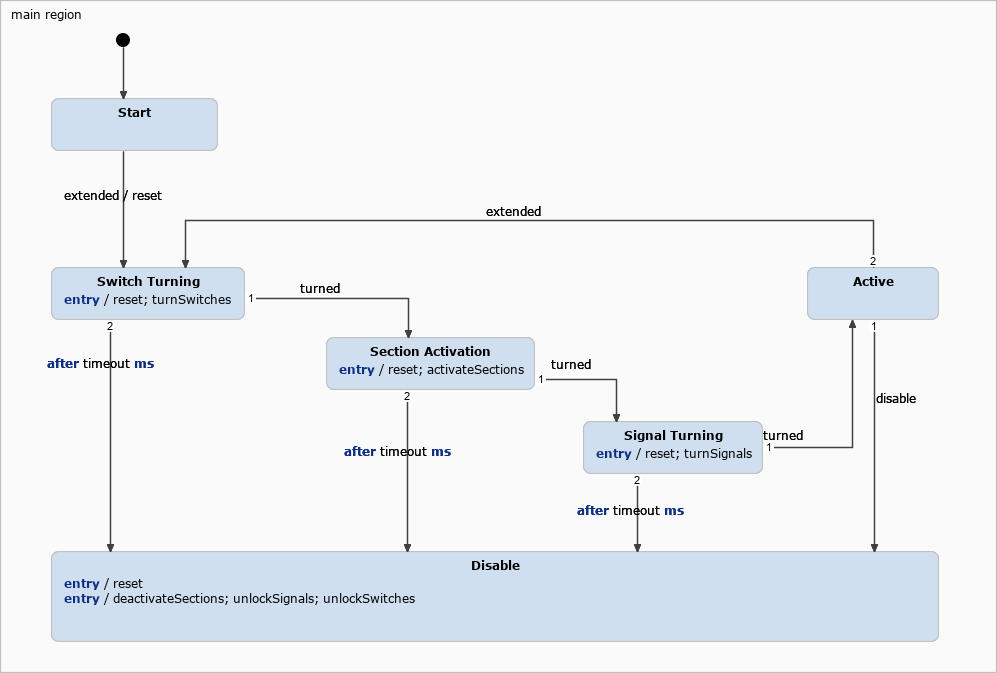
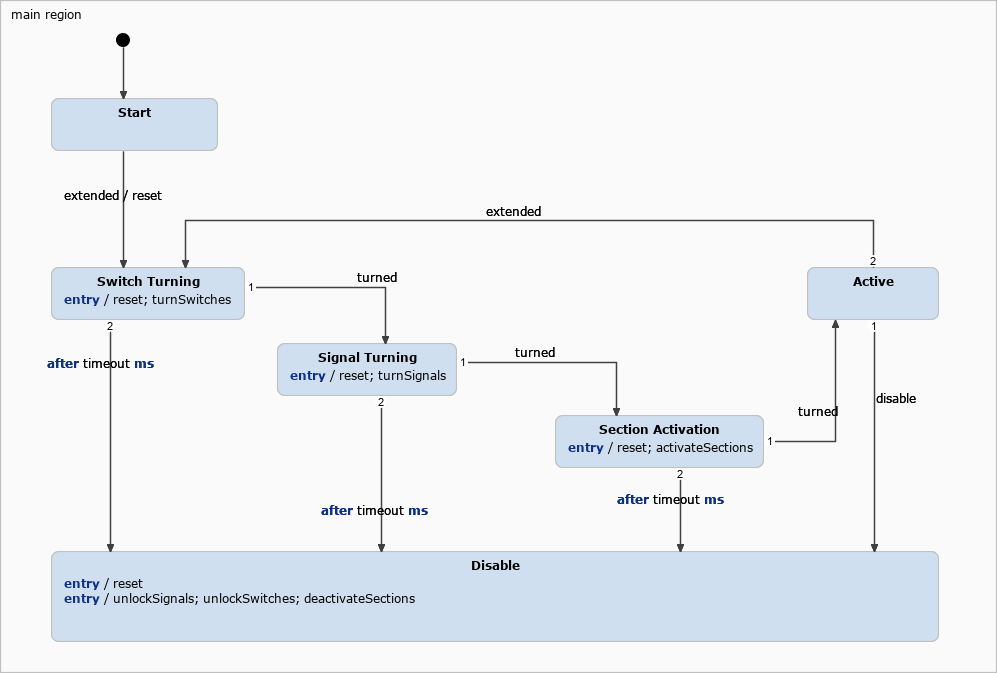
Reordered route deallocation.

diff --git a/statecharts/RouteStatechart.cpp b/statecharts/RouteStatechart.cpp
@@ -276,9 +276,9 @@ namespace mrw
 		{
 			/* Entry action for state 'Disable'. */
 			ifaceOperationCallback->reset();
-			ifaceOperationCallback->deactivateSections();
 			ifaceOperationCallback->unlockSignals();
 			ifaceOperationCallback->unlockSwitches();
+			ifaceOperationCallback->deactivateSections();
 		}
 
 		/* Exit action for state 'Switch Turning'. */
@@ -465,7 +465,7 @@ namespace mrw
 				if (turned_raised)
 				{
 					exseq_main_region_Switch_Turning();
-					enseq_main_region_Section_Activation_default();
+					enseq_main_region_Signal_Turning_default();
 					react(0);
 					transitioned_after = 0;
 				}
@@ -498,7 +498,7 @@ namespace mrw
 				if (turned_raised)
 				{
 					exseq_main_region_Section_Activation();
-					enseq_main_region_Signal_Turning_default();
+					enseq_main_region_Active_default();
 					react(0);
 					transitioned_after = 0;
 				}
@@ -531,7 +531,7 @@ namespace mrw
 				if (turned_raised)
 				{
 					exseq_main_region_Signal_Turning();
-					enseq_main_region_Active_default();
+					enseq_main_region_Section_Activation_default();
 					react(0);
 					transitioned_after = 0;
 				}

diff --git a/model/route.cpp b/model/route.cpp
@@ -123,14 +123,8 @@ void Route::prepare()
 		vector[i]->setState(
 			i > 0 ? vector[i - 1] : nullptr,
 			(i + 1) < vector.size() ? vector[i + 1] : nullptr);
-
-		qDebug().noquote() << "     " << vector[i]->toString();
 	}
-	qDebug() << "---";
-	for (Section * section : sections)
-	{
-		qDebug().noquote() << "     " << section->toString();
-	}
+	dump();
 }
 
 void Route::clear()
@@ -142,6 +136,19 @@ void Route::clear()
 	first_section = nullptr;
 	sections.clear();
 	track.clear();
+}
+
+void Route::dump()
+{
+	for (RailPart * part : track)
+	{
+		qDebug().noquote() << "     " << part->toString();
+	}
+	qDebug() << "---";
+	for (Section * section : sections)
+	{
+		qDebug().noquote() << "     " << section->toString();
+	}
 }
 
 bool Route::qualified(RailPart * rail) const

diff --git a/model/route.h b/model/route.h
@@ -39,6 +39,7 @@ namespace mrw::model
 		bool extend(RailPart * target);
 		bool extend(RailPart * rail, RailPart * target);
 		void clear();
+		void dump();
 
 	protected:
 		Track                   track;
